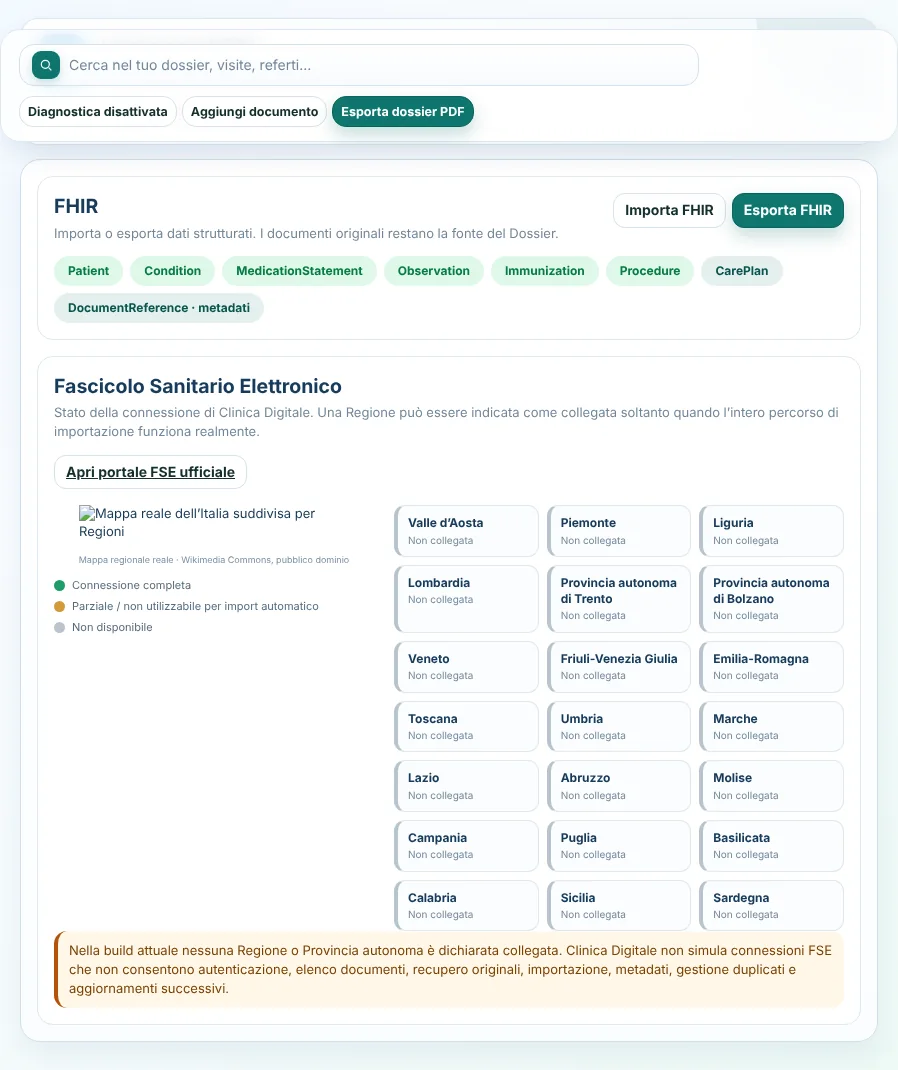
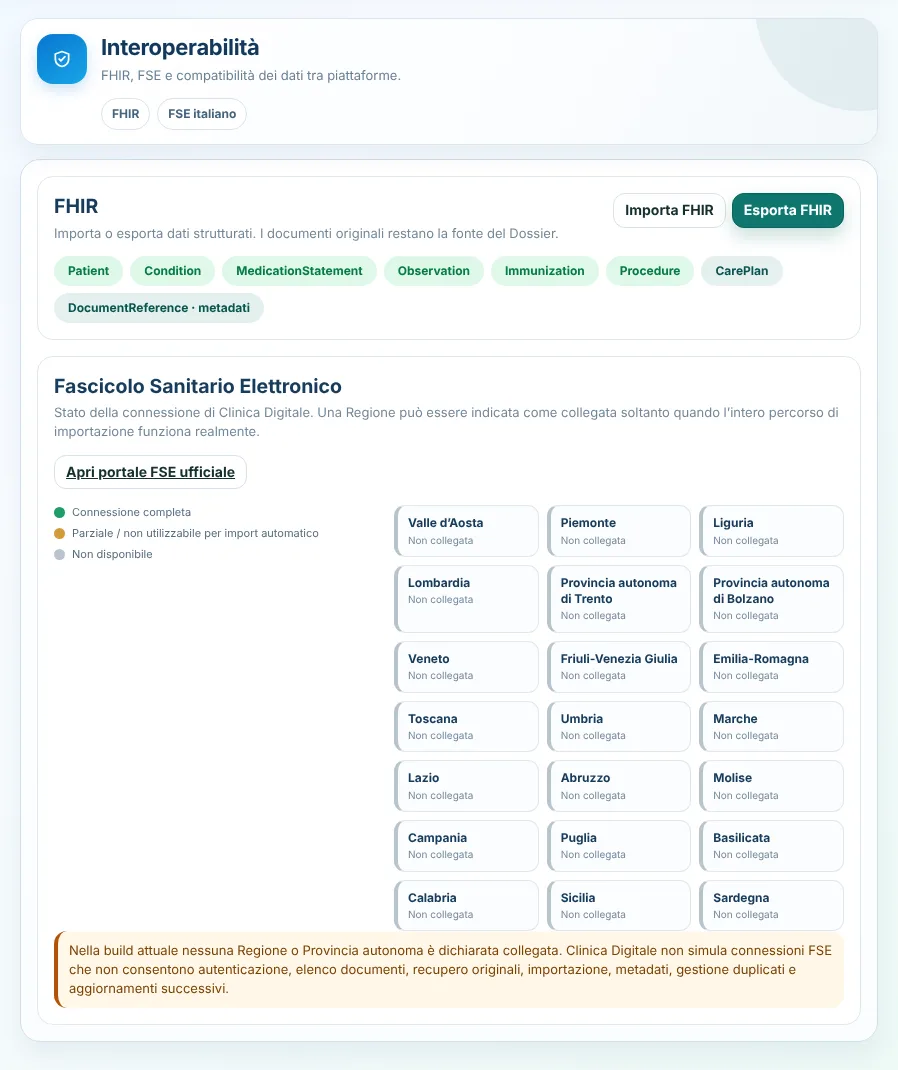
Demo: avviso sul collegamento al Fascicolo Sanitario Elettronico e immagini interoperabilita; home: nuova immagine del telefono
Claude-Session: https://claude.ai/code/session_01VLfkFkd9fGL8THJbK2Uijc

diff --git a/demo/index.html b/demo/index.html
@@ -165,6 +165,7 @@
     <!-- INTEROPERABILITA -->
     <section class="view" id="v-interoperabilita" hidden>
       <div class="view-head"><div><h1>Interoperabilità</h1><p>Import ed export dei dati sanitari.</p></div></div>
+      <div class="avviso-fse"><b>Collegamento al Fascicolo Sanitario Elettronico: non ancora disponibile</b><p>Al momento nessuna Regione mette a disposizione un collegamento ufficiale che permetta ad app come il Dossier di scaricare da sole i documenti dal Fascicolo Sanitario Elettronico. Per questo tutte le Regioni risultano &quot;Non collegata&quot;.</p><p>Il regolamento europeo sui dati sanitari prevede che in futuro ciascuno possa scaricare liberamente i propri dati dal Fascicolo della propria Regione. Il Dossier legge già i referti in PDF e i dati in formato FHIR, lo standard internazionale per lo scambio dei dati sanitari: quei file potrai caricarli qui. Nel frattempo puoi già caricare i referti che scarichi oggi dal tuo Fascicolo.</p></div>
       <p class="preview-label">Anteprima della sezione</p>
       <picture class="shot"><source media="(max-width: 700px)" srcset="img/tel_interoperabilita.webp"><img src="img/pc_interoperabilita.webp" alt="Interoperabilità" loading="lazy"></picture>
     </section>

diff --git a/demo/demo.css b/demo/demo.css
@@ -144,3 +144,6 @@ input,select{font:inherit;padding:10px 12px;border:1px solid #cfdbe3;border-radi
   .map-card iframe{height:200px}.map-foot{flex-direction:column;align-items:stretch}
   dl{grid-template-columns:1fr;gap:2px}dd{margin-bottom:8px}
 }
+
+.avviso-fse{margin:0 0 16px;padding:16px 18px;border:1px solid #f1d39a;border-left:5px solid #d48a12;border-radius:12px;background:#fff8ec;color:#5b4210}
+.avviso-fse b{display:block;font-size:16px;color:#7a4b00;margin-bottom:6px}.avviso-fse p{margin:6px 0 0;font-size:15px;line-height:1.5}
